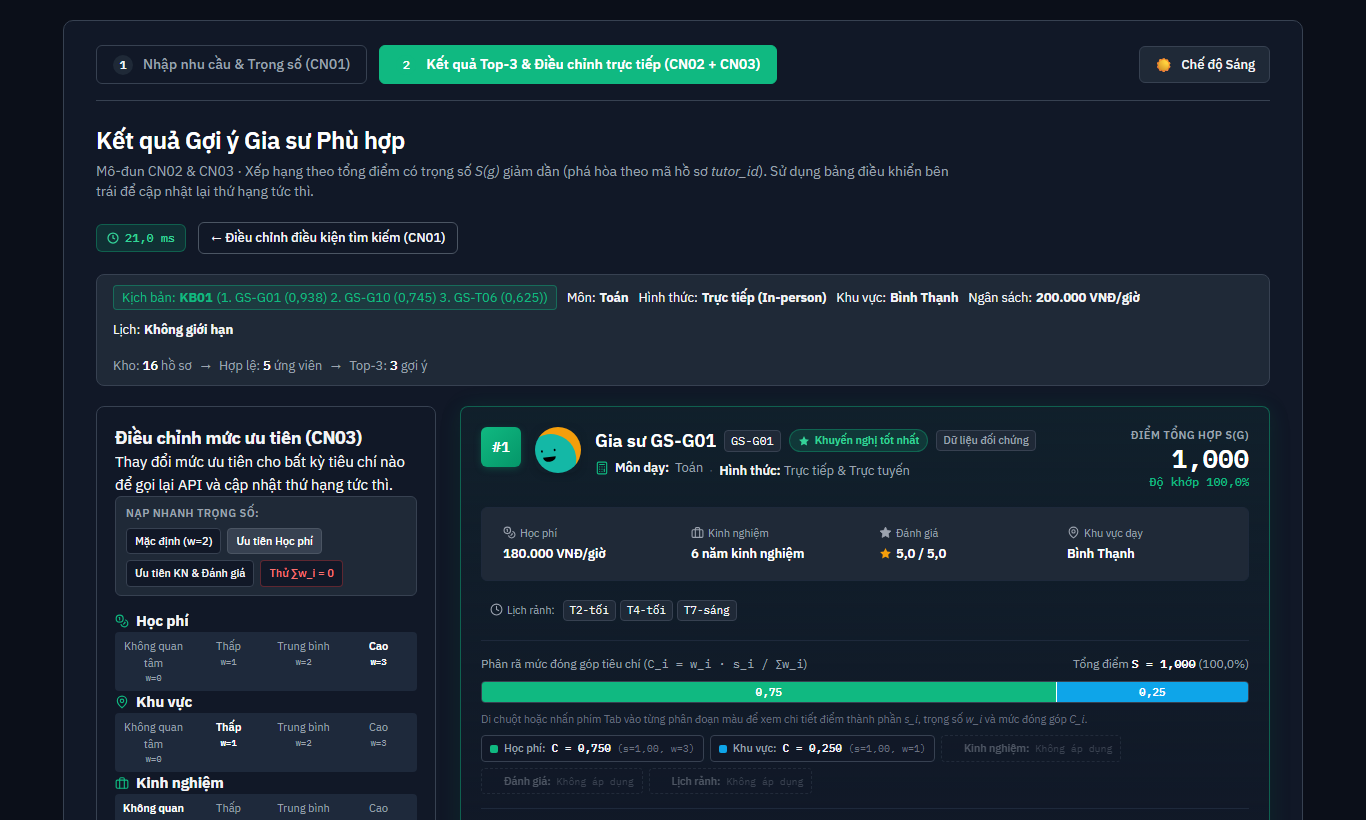
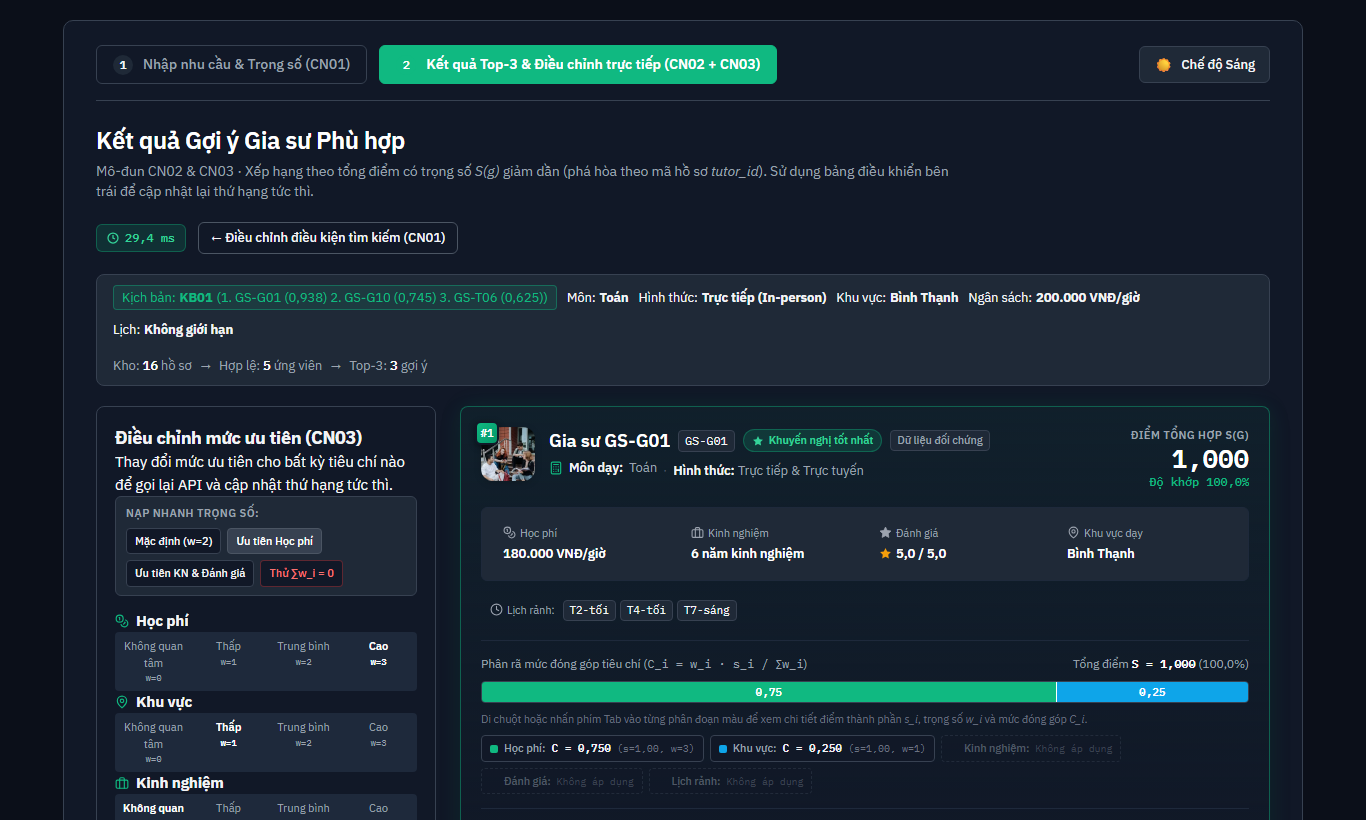
feat(frontend): finalize ResultPage isCalculating guard and update demo screenshots

Changed region(s): [[0.3382, 0.5183, 0.7687, 0.6098]]

diff --git a/frontend/src/pages/ResultPage.jsx b/frontend/src/pages/ResultPage.jsx
@@ -19,23 +19,24 @@ function ResultPage({
   onBackToSearch,
   onUpdatePriorities,
   isUpdatingPriorities = false,
+  isCalculating = false,
   latencyMs = null,
   apiError = '',
   rankDeltas = {},
 }) {
-  if (!recommendationResult) {
+  if (!recommendationResult && !isCalculating) {
     return null
   }
 
   const {
-    status,
-    message,
+    status = isCalculating ? 'loading' : 'success',
+    message = '',
     total_candidates: totalCandidates = 0,
     qualified_candidates: qualifiedCandidates = 0,
     results = [],
     unranked_candidates: unrankedCandidates = [],
     insufficient_data_candidates: insufficientDataCandidates = [],
-  } = recommendationResult
+  } = recommendationResult || {}
 
   const priorities = searchContext?.priorities || DEFAULT_PRIORITIES
   const subject = searchContext?.subject || 'Chưa chọn'
